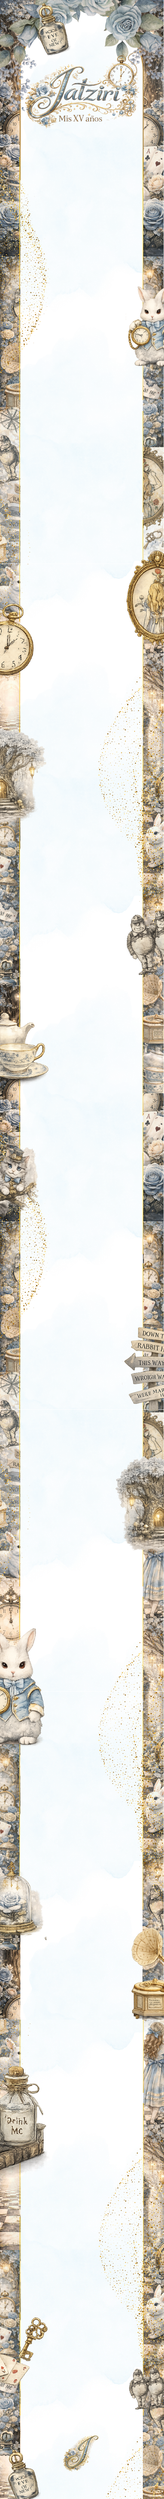
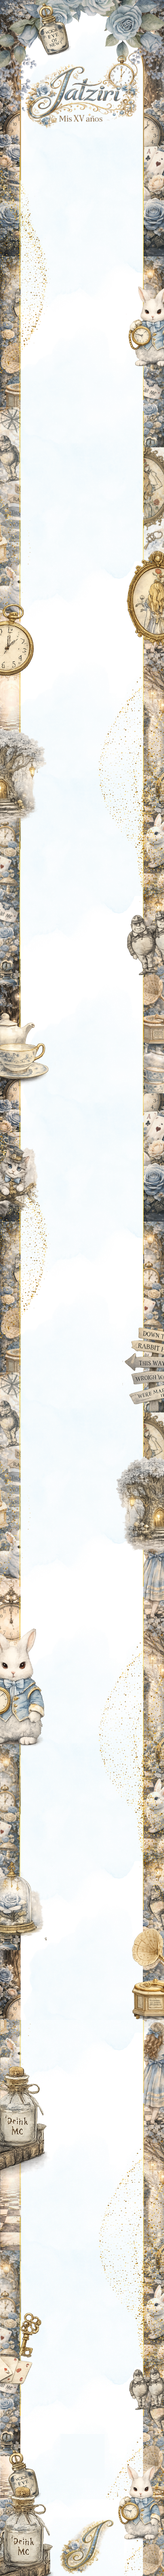
GABY

diff --git a/invi_feb_06/invitacion_xv/alicia_maravilla_jatziri/invitacion.html b/invi_feb_06/invitacion_xv/alicia_maravilla_jatziri/invitacion.html
@@ -34,11 +34,11 @@
         .background {
             background-image: url('img/background2.png');
             background-repeat: no-repeat;
-            background-size: 450px 6850px;
+            background-size: 450px 7060px;
             background-position: top center;
             width: 100%;
             max-width: 450px;
-            min-height: 6850px;
+            min-height: 7060px;
             margin: 0 auto;
             animation: slideIn 1.5s ease-out;
             position: relative;
